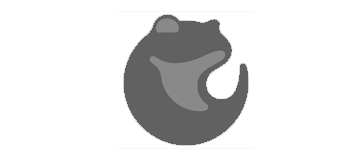
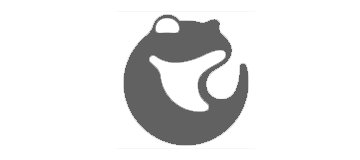
Downer added to project repo

Changed region(s): [[0.3972, 0.3125, 0.6417, 0.7188], [0.4278, 0.0938, 0.5194, 0.2188]]

diff --git a/Projects.html b/Projects.html
@@ -99,6 +99,9 @@
               <div class="logo-v1 gsap-reveal">
                 <img src="images/Clients/Tui.png" alt="Image" class="img-fluid">
               </div>
+              <div class="logo-v1 gsap-reveal">
+                <img src="images/Clients/Downer.png" alt="Image" class="img-fluid">
+              </div>
             </div>
           </div>
         </div>
